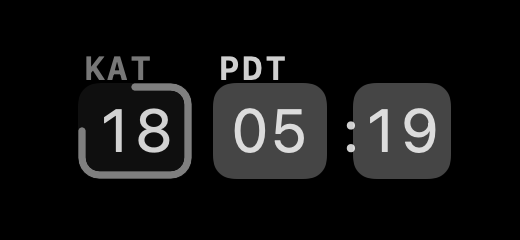
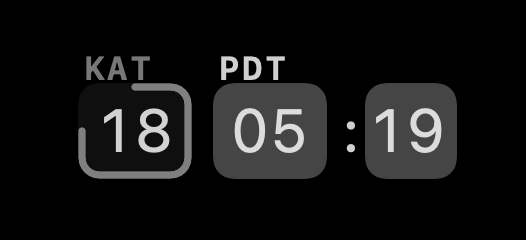
feat(glyph): give the colon static clearance from the hover card

diff --git a/doubletime/DesignSystem/DesignTokens.swift b/doubletime/DesignSystem/DesignTokens.swift
@@ -55,10 +55,18 @@ enum DesignTokens {
     static let glyphHorizontalPadding: CGFloat = 1
     /// Design: the trailing `:mm` carries an extra leading offset (marginLeft -1).
     static let trailingMinuteLeadingOffset: CGFloat = -1
-    /// Horizontal outset of the hovered minute's card past the `:mm` text box.
-    /// The card is drawn as a background (never layout) so the glyph width —
-    /// and therefore the status item length — cannot change on hover.
-    static let minuteCardOutset: CGFloat = 1.5
+    /// Static gap between the colon and the minute digits. Non-zero so the
+    /// hovered card's leading edge clears the colon ink (the card may not
+    /// touch the colon — it marks the DIGITS as swapped); at 10pt this reads
+    /// as ordinary tracking when idle.
+    static let minuteColonGap: CGFloat = 1
+    /// Outsets of the hovered minute's card past the digits' text box. Drawn
+    /// as a background (never layout) so the glyph width — and therefore the
+    /// status item length — cannot change on hover. Asymmetric: the leading
+    /// side stays shy of the colon (see minuteColonGap), the trailing side
+    /// breathes like the hour cells.
+    static let minuteCardLeadingOutset: CGFloat = 0.5
+    static let minuteCardTrailingOutset: CGFloat = 1.5
     /// Full duration of the trailing-minute roll (outgoing digits and incoming
     /// digits move together, reading as one continuous ribbon). Also paces the
     /// settings-chip crossfade so both surfaces feel like one mechanism.

diff --git a/doubletime/Glyph/TrailingMinute.swift b/doubletime/Glyph/TrailingMinute.swift
@@ -43,7 +43,7 @@ struct TrailingMinute: View {
     @Environment(\.accessibilityReduceMotion) private var reduceMotion
 
     var body: some View {
-        HStack(spacing: 0) {
+        HStack(spacing: DesignTokens.minuteColonGap) {
             colon
             digits
         }
@@ -79,7 +79,8 @@ struct TrailingMinute: View {
         RoundedRectangle(cornerRadius: DesignTokens.cellCornerRadius)
             .fill(DesignTokens.chipFill(isPrimary: true, period: cardPeriod, colorScheme: colorScheme))
             .frame(height: DesignTokens.cellSize.height)
-            .padding(.horizontal, -DesignTokens.minuteCardOutset)
+            .padding(.leading, -DesignTokens.minuteCardLeadingOutset)
+            .padding(.trailing, -DesignTokens.minuteCardTrailingOutset)
     }
 
     /// When blinking, ONLY the colon runs a per-second timeline (the rest of the
